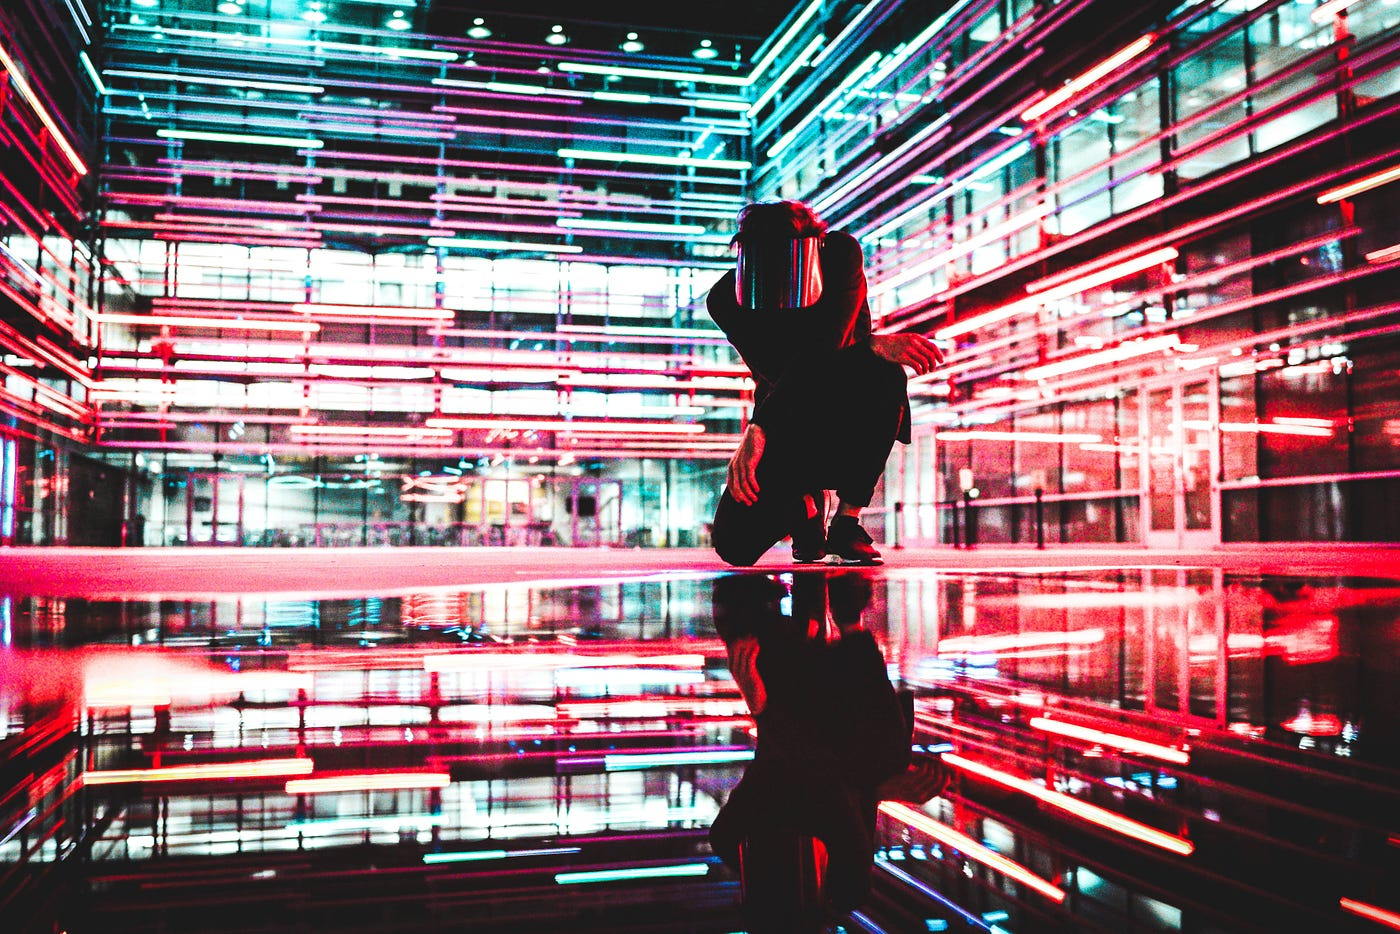
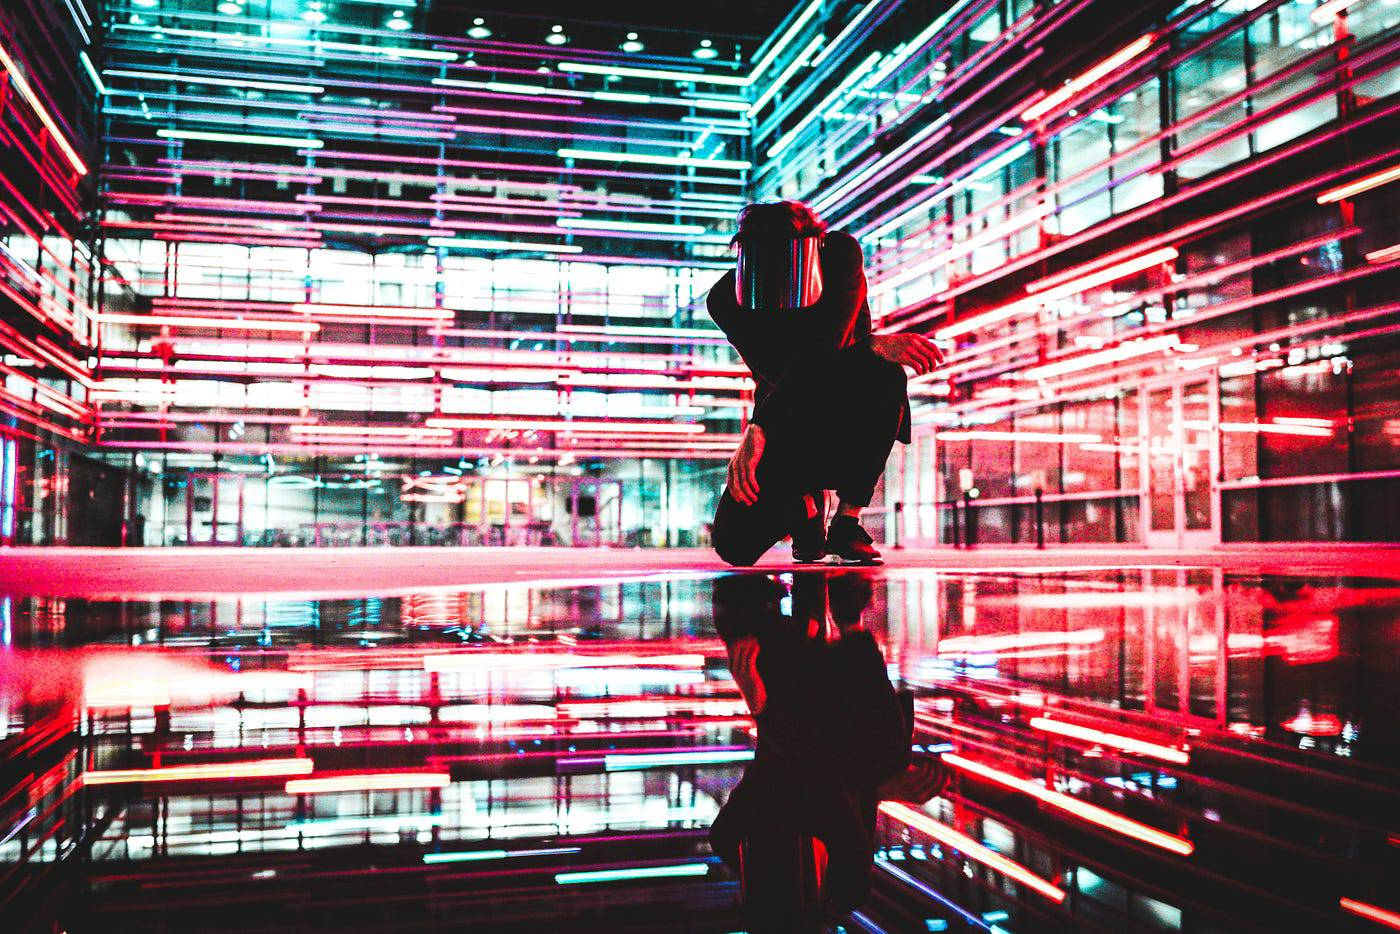
Merge pull request #19 from viccjiang/perf/compress-images
[效能] 壓縮過大的圖片 viccjiang/blog-source@df4132b1b5b481d11397d30dd69f3f0ef1cdfc58

diff --git a/blog/20210707_vue_live_class/index.html b/blog/20210707_vue_live_class/index.html
@@ -10,7 +10,7 @@
 <meta property="og:title" content="Vue 作品實戰直播班 心得分享">
 <meta property="og:description" content="分享這八週的上課心得，只要你不放棄你自己，六角就會在線上幫助你。">
 <meta property="og:url" content="https://viccjiang.github.io/blog/20210707_vue_live_class/">
-<meta property="og:image" content="https://viccjiang.github.io/images/post/medium/20210707_vue_live_class-01.png">
+<meta property="og:image" content="https://viccjiang.github.io/images/post/medium/20210707_vue_live_class-01.jpg">
 <meta property="og:type" content="article">
 <meta property="article:published_time" content="2021-07-07T12:48:23&#43;08:00">
 <meta property="article:modified_time" content="2021-07-07T12:48:23&#43;08:00">
@@ -25,8 +25,8 @@
 <meta name="twitter:card" content="summary_large_image">
 <meta name="twitter:title" content="Vue 作品實戰直播班 心得分享">
 <meta name="twitter:description" content="分享這八週的上課心得，只要你不放棄你自己，六角就會在線上幫助你。">
-<meta name="twitter:image" content="https://viccjiang.github.io/images/post/medium/20210707_vue_live_class-01.png">
-<script type="application/ld+json">{"@context":"https://schema.org","@type":"BlogPosting","articleSection":"自我成長","author":{"@type":"Person","image":"https://viccjiang.github.io/images/author.jpg","name":"Jiang","sameAs":["https://github.com/viccjiang","https://jiangsdesign.medium.com/"],"url":"https://viccjiang.github.io/about/"},"dateModified":"2021-07-07T12:48:23+08:00","datePublished":"2021-07-07T12:48:23+08:00","description":"分享這八週的上課心得，只要你不放棄你自己，六角就會在線上幫助你。","headline":"Vue 作品實戰直播班 心得分享","image":["https://viccjiang.github.io/images/post/medium/20210707_vue_live_class-01.png"],"inLanguage":"zh-Hant-TW","keywords":"六角學院, Vue, Vue直播班, 學習, 前端","mainEntityOfPage":{"@id":"https://viccjiang.github.io/blog/20210707_vue_live_class/","@type":"WebPage"},"publisher":{"@type":"Person","image":"https://viccjiang.github.io/images/author.jpg","name":"Jiang","sameAs":["https://github.com/viccjiang","https://jiangsdesign.medium.com/"],"url":"https://viccjiang.github.io/about/"},"url":"https://viccjiang.github.io/blog/20210707_vue_live_class/"}</script>
+<meta name="twitter:image" content="https://viccjiang.github.io/images/post/medium/20210707_vue_live_class-01.jpg">
+<script type="application/ld+json">{"@context":"https://schema.org","@type":"BlogPosting","articleSection":"自我成長","author":{"@type":"Person","image":"https://viccjiang.github.io/images/author.jpg","name":"Jiang","sameAs":["https://github.com/viccjiang","https://jiangsdesign.medium.com/"],"url":"https://viccjiang.github.io/about/"},"dateModified":"2021-07-07T12:48:23+08:00","datePublished":"2021-07-07T12:48:23+08:00","description":"分享這八週的上課心得，只要你不放棄你自己，六角就會在線上幫助你。","headline":"Vue 作品實戰直播班 心得分享","image":["https://viccjiang.github.io/images/post/medium/20210707_vue_live_class-01.jpg"],"inLanguage":"zh-Hant-TW","keywords":"六角學院, Vue, Vue直播班, 學習, 前端","mainEntityOfPage":{"@id":"https://viccjiang.github.io/blog/20210707_vue_live_class/","@type":"WebPage"},"publisher":{"@type":"Person","image":"https://viccjiang.github.io/images/author.jpg","name":"Jiang","sameAs":["https://github.com/viccjiang","https://jiangsdesign.medium.com/"],"url":"https://viccjiang.github.io/about/"},"url":"https://viccjiang.github.io/blog/20210707_vue_live_class/"}</script>
 
 
   <!-- Theme (dark mode) — 必須儘早執行，避免閃爍 -->
@@ -185,7 +185,7 @@
           
         </div>
         
-        <img src="https://viccjiang.github.io/images/post/medium/20210707_vue_live_class-01.png" class="img-fluid w-100 mb-4" alt="Vue 作品實戰直播班 心得分享">
+        <img src="https://viccjiang.github.io/images/post/medium/20210707_vue_live_class-01.jpg" class="img-fluid w-100 mb-4" alt="Vue 作品實戰直播班 心得分享">
         
         <div class="content mb-5">
           <p>分享這八週的上課心得，只要你不放棄你自己，六角就會在線上幫助你。</p>
@@ -209,14 +209,14 @@
 <li>正在開始學習任一種 JavaScript 框架（Angular、React、Vue）</li>
 </ul>
 <h3 id="第一週第二週函式拆解關注點分離thispromiserestful-api">第一週、第二週：函式拆解、關注點分離、This、Promise、RESTful API</h3>
-<p><img src="/images/post/medium/20210707_vue_live_class-03.png" alt=""></p>
+<p><img src="/images/post/medium/20210707_vue_live_class-03.jpg" alt=""></p>
 <p>第一堂第二堂是偏向於 JS 掌握度，像是ES6常用縮寫、樣板字面值、forEach 以外的陣列方法 (比如：map) 如何運作、Vue 開發者工具搞了很久才搞定，還有可怕的 this ，老師還提到第四週會遇到的大魔王很難… 感覺會很打擊，心情有點受挫，但這些大概都是必經過程，其實在 JS 班時學了許多 JS 語法，也了解到函式拆解，而第一堂課就是在複習函式結構化拆解練習以及關注點分離！緊接著練習API串接，身為前端一定要學的就是了解 Promise 非同步觀念用法以及 CRUD 一定要懂！</p>
 <ul>
 <li>相對於關注點分離，就是沒有關注點分離：資料跟畫面尬在一起</li>
 <li>關注點分離：HTML, JS 分離 / 資料與方法分離</li>
 <li>CRUD：get、post、put、delete 讀取新增更新刪除 （必學）</li>
 </ul>
-<p><img src="/images/post/medium/20210707_vue_live_class-04.png" alt=""></p>
+<p><img src="/images/post/medium/20210707_vue_live_class-04.jpg" alt=""></p>
 <h3 id="第三週第四週vue-後台介面練習元件化-component生命週期-life-cycle">第三週、第四週：Vue 後台介面練習，元件化 Component、生命週期 life cycle</h3>
 <p>第三週 Vue 的起手式，開始進入最常用的 Vue 語法，開始學了一堆指令，有些真的是難到叫媽媽，真的不知道學這個要幹嘛，直到課程要結束了，才知道老師的用心，是要我們先了解其原理，後面才會運用，像是This 運作、資料與方法展開、元件綁定、物件傳參考的特性，不得不說物件傳參考我到現在還不知道在幹嘛哩。指令大概學了這幾個 v-bind （ ：縮寫 ）/ v-model / v-if, v-else / v-on （ 縮寫＠ ）/ v-for / v-bind 到了第八週時發現，最常用到大概真的就這幾個語法！</p>
 <p>進入第四週，真的是靠北週，開始有老師講的以下這些症狀，學的時候好像會，真的要自己做卻不知道如何著手：</p>
@@ -252,13 +252,13 @@
 <p>這門課最大的收穫就是，『 所有的同學都是你的老師 』，每當我有疑惑時，就會 slack 上面翻翻看，看是否有同學也遇到問題，有時也會發現自己的盲點，最棒的是，現在同學提問給助教的問題都會記錄起來，我也會去翻找答案！</p>
 <p><img src="/images/post/medium/20210707_vue_live_class-11.png" alt=""></p>
 <p>還可以在程式勇者村裡看別人的程式碼，看看別人跟自己的差異，看別人是怎麼解決自己無法解決的問題！</p>
-<p><img src="/images/post/medium/20210707_vue_live_class-12.png" alt=""></p>
+<p><img src="/images/post/medium/20210707_vue_live_class-12.jpg" alt=""></p>
 <p>另外，我覺得很可惜的地方是 slack 有些舊訊息會被洗掉，嗚嗚嗚，覺得很可惜，雖然有些是不重要的訊息，但對於需要的同學卻是很重要且實用的資訊，希望我有另一顆腦袋可以把大家所有踩到的雷點都記錄下來！</p>
 <p>對於想入坑的同學的話，我想就是：必須帶著一顆保持熱忱的心去學習，因為這條路有很多 bug 需要你自己去解決！大概是這樣，這是我這三個月來學習 Vue 的過程，希望自己卡關能時常來看這篇，找回想轉職的初衷！</p>
 <p>最後，真的要推爆六角學院的 <a href="https://www.hexschool.com/courses/">直播課程跟影音課程</a> 真的對前端超級新手很友善，又有助教可以隨時詢問，真的很棒 %%%%%%%%%%%%%</p>
 <h3 id="六角不怕沒資源只怕你不學">六角不怕沒資源，只怕你不學！</h3>
 <p>接下來，七八月要繼續再戰洧杰老師的網頁切版班啦！繼續踩坑打怪去！</p>
-<p><img src="/images/post/medium/20210707_vue_live_class-13.png" alt=""></p>
+<p><img src="/images/post/medium/20210707_vue_live_class-13.jpg" alt=""></p>
 <h3 id="六角學院-javascript-直播班--js學徒團練打怪篇">六角學院 JavaScript 直播班 — JS學徒團練打怪篇</h3>
 <h4 id="2021春季這篇記錄著進入js絕望峽谷產生的各種心情起伏-">2021春季，這篇記錄著進入JS絕望峽谷產生的各種心情起伏 ～</h4>
 <p>jiangsdesign.medium.com</p>

diff --git a/blog/20220309_vue_project_class_2022/index.html b/blog/20220309_vue_project_class_2022/index.html
@@ -263,7 +263,7 @@
 <p><img src="/images/post/medium/20220309_vue_project_class_2022-02.png" alt=""></p>
 <pre tabindex="0"><code>Vue Cli 安裝成功後，能開起來就滿滿的成就感了阿 RRR ~ ( 容易滿足的孩只 ) 
 </code></pre><hr>
-<p><img src="/images/post/medium/20220309_vue_project_class_2022-03.png" alt="各檔案代表的意義"></p>
+<p><img src="/images/post/medium/20220309_vue_project_class_2022-03.jpg" alt="各檔案代表的意義"></p>
 <hr>
 <p>再來是 Github Page 部署的問題，老實說如果在這階段之前沒學過 git 的同學，可能真的比較吃力，因為可能會噴一堆奇怪的錯 ，初學者光看到噴一堆錯就會很緊張，這次直播班比較常犯的錯大概就是 main 跟 master 打錯了或是遠端設定 https / ssh 沒搞清楚，之前上切版班時我就是屬於超緊張的人，而且那時候還遇到 Github 改版問題要改用申請 token 金鑰才能用 ( 我沒用 SSH )，也好險之前經過切版班的上傳部署洗禮，了解 Github Pages 如何部署，以及部屬流程運作，像是之前沒學過一鍵部署，這次除了老師有錄影片教學之外， Ray 助教也有 <a href="https://israynotarray.com/vue/20200214/1055437216/">文章教學</a>，覺得真的好佛心呀，Ray 助教的部落格滿滿的寶藏，可以慢慢挖</p>
 <p>一鍵部署指令：sh deploy.sh</p>
@@ -331,7 +331,7 @@ sh deploy.sh
 </code></pre><p>這段字查了超久，一開始還以為是啥 webpack 配置問題，就往這個方向去查，結果重點在更後面的警告文字</p>
 <pre tabindex="0"><code>contains exclamation mark (!) which is not allowed because it&#39;s reserved for loader syntax
 </code></pre><p>debug 3~4 小時，終於找到答案，結果是檔案路經中不能有驚嘆號 … 我哭阿 ~ 然後我應該早點把那「整段」警告丟到翻譯去看，就不會花這麼多時間惹 QQ</p>
-<p><img src="/images/post/medium/20220309_vue_project_class_2022-04.png" alt=""></p>
+<p><img src="/images/post/medium/20220309_vue_project_class_2022-04.jpg" alt=""></p>
 <hr>
 <p>噢，忘了提到最重要的一點，六角的助教服務真的好到沒話說，通常我都是先嘗試自己找答案，超過一定時間沒解開時就會提問，這次直播班我也是極盡所能的善用助教服務，只要卡到陰，不對，是卡程式碼，大概超過 30 分鐘，就會開始焦慮，就會思考要不要提問，但有時候我寫完敘述問題點要提問時，就又解開了 ( 這真的是謎團 ~ 發現都是自己犯了個小錯誤導致，像是 http method 打錯或是 帶錯參數 之類的這種小錯誤</p>
 <blockquote>
@@ -339,7 +339,7 @@ sh deploy.sh
 </blockquote>
 <hr>
 <p>這次最棒的是學員間的所有討論都不再是使用 slack 啦，因為 slack 都不能保留同學討論的資訊，課程結束後會隨著時間消失，而這次直播班開始導入 Discord ，所以資訊終於都有被保留下來，這些討論串也幫助了我很多時刻，像是部署的這個大關卡就很多人卡關發問，我也間接在其中獲得資訊，在部署時就順利許多，還有各種的作業問題，大部分都可以在討論串獲得解答。</p>
-<p><img src="/images/post/medium/20220309_vue_project_class_2022-05.png" alt=""></p>
+<p><img src="/images/post/medium/20220309_vue_project_class_2022-05.jpg" alt=""></p>
 <p>再來是這次直播班我比較在意的是大家每天在頻道上面提問的問題，經過先前幾次直播班的經驗，通常大家提問的問題都是我接下來會碰到的問題，所以，大概第四週之後我就開始每天在頻道上面蒐集問題，只要有人提問 Discord 就跳通知，我就會立刻看問題，比較像是在蒐集情報吧，掌握資料越多，之後遇到問題時解題的方向就會較明確 ~</p>
 <p>其實真的滿建議大家要看頻道上討論的話題，可以學到相當多新的知識點 !!!</p>
 <p><img src="/images/post/medium/20220309_vue_project_class_2022-06.png" alt=""></p>

diff --git a/blog/20210628_coding_camp_2021/index.html b/blog/20210628_coding_camp_2021/index.html
@@ -187,7 +187,7 @@
           <p>這是六角學院發起的公益活動 — 勤奮在家學前端，戰勝疫情救台灣</p>
 <p>真心感謝六角學院，讓我搶到進入700人訓練營的門票，也讓我在最低潮的時候看見一道曙光，因為自從公司縮編後四月開始待業，在家都是獨自在線上自學，身邊也鮮少有懂程式的朋友，我了解到這是一條孤獨且陌生的路！</p>
 <p>五月中旬台灣疫情大爆發，到處都蔓延一種末日感，伴隨著莫大的焦慮與恐慌，立即進入了三級警戒，生活產生了劇烈改變，想認真的吸一口新鮮空氣都變得奢侈，每天都處在緊張恐慌的情緒底下，學習的心情也開始受到影響，這個影響至少持續了兩週到五月底，也好在六角學院在五月中推出 Bootstrap5 實戰營，讓自己再度有個目標，拉回學習的最佳狀態，雖然參加了BS5實戰營，但我最後沒有做出作品，實在有點小可惜，有空會回去補最後任務。</p>
-<p><img src="/images/post/medium/20210628_coding_camp_2021-02.png" alt=""></p>
+<p><img src="/images/post/medium/20210628_coding_camp_2021-02.jpg" alt=""></p>
 <p>六月緊接在後的是繼續參加 <a href="https://www.hexschool.com/2021/05/20/2021-05-20-covid-public-welfare/">六角學院2021程式體驗營活動</a> ，希望找回寫程式的手感與面對疫情的正向態度，這種時刻意識到自己必須學會持續專注於能夠控制的事情，而且每次在加入六角學院的活動後，生活也開始變得比較有衝勁跟活力，不管是在slack 或是 FB六角社團，總是有活躍的校長、老師、助教、還有學員們的熱烈互動，洧杰老師總是說「只要你不放棄你自己，六角學院就永遠支持你」、「不用很厲害才開始，要先開始才會很厲害」，覺得自己在學習的路上絕對不是孤單的！我也在這堂課程，再次找到對程式的熱忱，目前也完成了四項主線任務！</p>
 <p><img src="/images/post/medium/20210628_coding_camp_2021-03.png" alt=""></p>
 <p>雖然去年開始上直播班一路上到現在，也沒有結交到可以討論到如此熱烈的夥伴們，但這次小組真的很不一樣，回想這次體驗營第一週第二週，因為個人因素忙了一波，都沒有參與到大家的小組線上討論，第三週開始加入語音討論行列，才發現這次的小組組員很不一樣，討論極度熱烈，組長真的很用心在籌備每次的線上會議，感覺組長都有一個特定的 rundown，專業直播主無誤，很認真引導大家線上互動，還導入一些線上數位協作工具，實在很喜歡大家這樣的互動方式！每次開會都像是又上了一次課，下課又是滿滿的收穫！</p>

diff --git a/page/3/index.html b/page/3/index.html
@@ -269,7 +269,7 @@ Front end Developer &amp; Graphic Designer &amp; Dreamer</p>
 時間過得太快，這九週課程竟然結束了，中間一度 …</p>
               </div>
               
-              <img src="https://viccjiang.github.io/images/post/medium/20210707_vue_live_class-01.png" alt="Vue 作品實戰直播班 心得分享" style="width: 200px; min-width: 200px; height: 150px; object-fit: cover; border-radius: 0 .25rem .25rem 0;">
+              <img src="https://viccjiang.github.io/images/post/medium/20210707_vue_live_class-01.jpg" alt="Vue 作品實戰直播班 心得分享" style="width: 200px; min-width: 200px; height: 150px; object-fit: cover; border-radius: 0 .25rem .25rem 0;">
               
             </article>
             </a>

diff --git a/blog/page/3/index.html b/blog/page/3/index.html
@@ -269,7 +269,7 @@ Front end Developer &amp; Graphic Designer &amp; Dreamer</p>
 時間過得太快，這九週課程竟然結束了，中間一度 …</p>
         </div>
         
-        <img src="https://viccjiang.github.io/images/post/medium/20210707_vue_live_class-01.png" alt="Vue 作品實戰直播班 心得分享" style="width: 200px; min-width: 200px; height: 150px; object-fit: cover; border-radius: 0 .25rem .25rem 0;">
+        <img src="https://viccjiang.github.io/images/post/medium/20210707_vue_live_class-01.jpg" alt="Vue 作品實戰直播班 心得分享" style="width: 200px; min-width: 200px; height: 150px; object-fit: cover; border-radius: 0 .25rem .25rem 0;">
         
     </article>
     </a>

diff --git a/categories/學習筆記/page/2/index.html b/categories/學習筆記/page/2/index.html
@@ -269,7 +269,7 @@ Front end Developer &amp; Graphic Designer &amp; Dreamer</p>
 時間過得太快，這九週課程竟然結束了，中間一度 …</p>
         </div>
         
-        <img src="https://viccjiang.github.io/images/post/medium/20210707_vue_live_class-01.png" alt="Vue 作品實戰直播班 心得分享" style="width: 200px; min-width: 200px; height: 150px; object-fit: cover; border-radius: 0 .25rem .25rem 0;">
+        <img src="https://viccjiang.github.io/images/post/medium/20210707_vue_live_class-01.jpg" alt="Vue 作品實戰直播班 心得分享" style="width: 200px; min-width: 200px; height: 150px; object-fit: cover; border-radius: 0 .25rem .25rem 0;">
         
     </article>
     </a>

diff --git a/categories/自我成長/index.html b/categories/自我成長/index.html
@@ -393,7 +393,7 @@ Front end Developer &amp; Graphic Designer &amp; Dreamer</p>
 時間過得太快，這九週課程竟然結束了，中間一度 …</p>
         </div>
         
-        <img src="https://viccjiang.github.io/images/post/medium/20210707_vue_live_class-01.png" alt="Vue 作品實戰直播班 心得分享" style="width: 200px; min-width: 200px; height: 150px; object-fit: cover; border-radius: 0 .25rem .25rem 0;">
+        <img src="https://viccjiang.github.io/images/post/medium/20210707_vue_live_class-01.jpg" alt="Vue 作品實戰直播班 心得分享" style="width: 200px; min-width: 200px; height: 150px; object-fit: cover; border-radius: 0 .25rem .25rem 0;">
         
     </article>
     </a>

diff --git a/tags/vue/index.html b/tags/vue/index.html
@@ -300,7 +300,7 @@ Front end Developer &amp; Graphic Designer &amp; Dreamer</p>
 時間過得太快，這九週課程竟然結束了，中間一度 …</p>
         </div>
         
-        <img src="https://viccjiang.github.io/images/post/medium/20210707_vue_live_class-01.png" alt="Vue 作品實戰直播班 心得分享" style="width: 200px; min-width: 200px; height: 150px; object-fit: cover; border-radius: 0 .25rem .25rem 0;">
+        <img src="https://viccjiang.github.io/images/post/medium/20210707_vue_live_class-01.jpg" alt="Vue 作品實戰直播班 心得分享" style="width: 200px; min-width: 200px; height: 150px; object-fit: cover; border-radius: 0 .25rem .25rem 0;">
         
     </article>
     </a>

diff --git a/tags/vue直播班/index.html b/tags/vue直播班/index.html
@@ -269,7 +269,7 @@ Front end Developer &amp; Graphic Designer &amp; Dreamer</p>
 時間過得太快，這九週課程竟然結束了，中間一度 …</p>
         </div>
         
-        <img src="https://viccjiang.github.io/images/post/medium/20210707_vue_live_class-01.png" alt="Vue 作品實戰直播班 心得分享" style="width: 200px; min-width: 200px; height: 150px; object-fit: cover; border-radius: 0 .25rem .25rem 0;">
+        <img src="https://viccjiang.github.io/images/post/medium/20210707_vue_live_class-01.jpg" alt="Vue 作品實戰直播班 心得分享" style="width: 200px; min-width: 200px; height: 150px; object-fit: cover; border-radius: 0 .25rem .25rem 0;">
         
     </article>
     </a>

diff --git a/tags/六角學院/page/2/index.html b/tags/六角學院/page/2/index.html
@@ -269,7 +269,7 @@ Front end Developer &amp; Graphic Designer &amp; Dreamer</p>
 時間過得太快，這九週課程竟然結束了，中間一度 …</p>
         </div>
         
-        <img src="https://viccjiang.github.io/images/post/medium/20210707_vue_live_class-01.png" alt="Vue 作品實戰直播班 心得分享" style="width: 200px; min-width: 200px; height: 150px; object-fit: cover; border-radius: 0 .25rem .25rem 0;">
+        <img src="https://viccjiang.github.io/images/post/medium/20210707_vue_live_class-01.jpg" alt="Vue 作品實戰直播班 心得分享" style="width: 200px; min-width: 200px; height: 150px; object-fit: cover; border-radius: 0 .25rem .25rem 0;">
         
     </article>
     </a>

diff --git a/tags/前端/index.html b/tags/前端/index.html
@@ -359,7 +359,7 @@ Front end Developer &amp; Graphic Designer &amp; Dreamer</p>
 時間過得太快，這九週課程竟然結束了，中間一度 …</p>
         </div>
         
-        <img src="https://viccjiang.github.io/images/post/medium/20210707_vue_live_class-01.png" alt="Vue 作品實戰直播班 心得分享" style="width: 200px; min-width: 200px; height: 150px; object-fit: cover; border-radius: 0 .25rem .25rem 0;">
+        <img src="https://viccjiang.github.io/images/post/medium/20210707_vue_live_class-01.jpg" alt="Vue 作品實戰直播班 心得分享" style="width: 200px; min-width: 200px; height: 150px; object-fit: cover; border-radius: 0 .25rem .25rem 0;">
         
     </article>
     </a>

diff --git a/tags/學習/index.html b/tags/學習/index.html
@@ -269,7 +269,7 @@ Front end Developer &amp; Graphic Designer &amp; Dreamer</p>
 時間過得太快，這九週課程竟然結束了，中間一度 …</p>
         </div>
         
-        <img src="https://viccjiang.github.io/images/post/medium/20210707_vue_live_class-01.png" alt="Vue 作品實戰直播班 心得分享" style="width: 200px; min-width: 200px; height: 150px; object-fit: cover; border-radius: 0 .25rem .25rem 0;">
+        <img src="https://viccjiang.github.io/images/post/medium/20210707_vue_live_class-01.jpg" alt="Vue 作品實戰直播班 心得分享" style="width: 200px; min-width: 200px; height: 150px; object-fit: cover; border-radius: 0 .25rem .25rem 0;">
         
     </article>
     </a>
